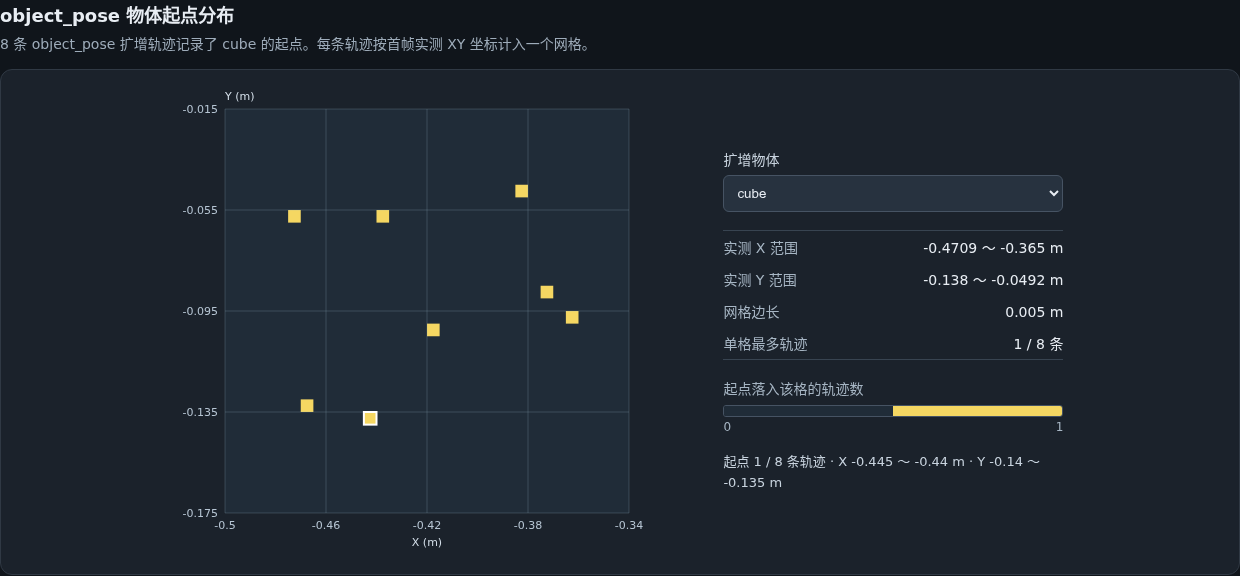
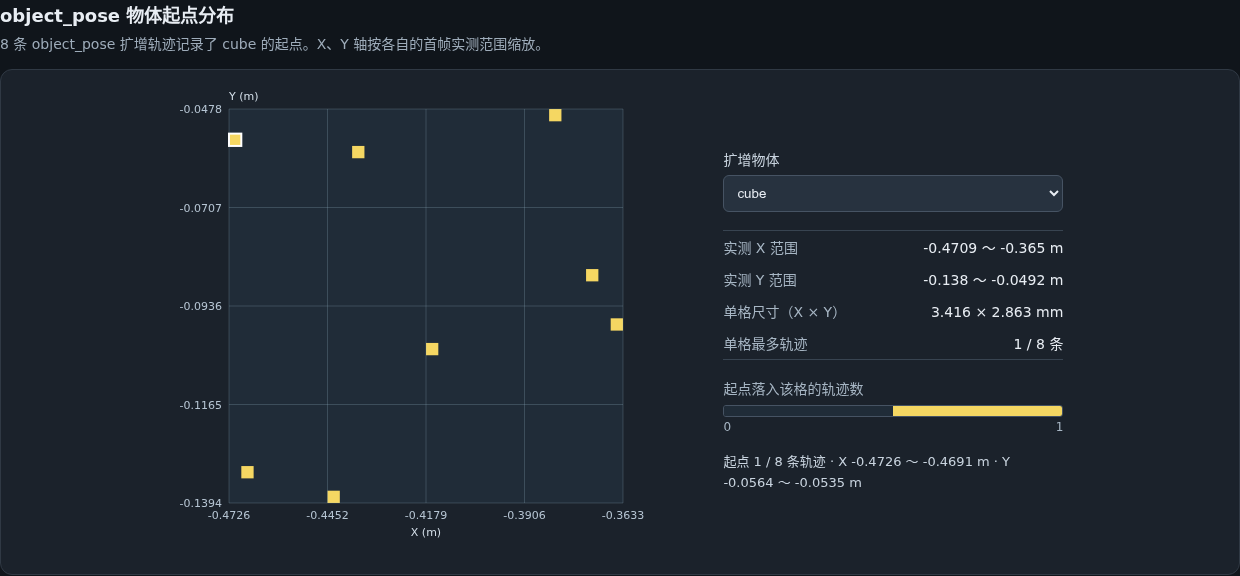
fix(expansion): fit heatmap axes to measured starting positions

diff --git a/embodichain/lab/expansion/_preview_heatmap.js b/embodichain/lab/expansion/_preview_heatmap.js
@@ -19,10 +19,19 @@
   const canvas = element('plot');
   const ctx = canvas.getContext('2d');
   const objectSelect = element('object');
-  const number = new Intl.NumberFormat('zh-CN', {maximumFractionDigits: 4});
-  const meters = (a, b) => `${number.format(a)} ～ ${number.format(b)} m`;
+  const millimeters = new Intl.NumberFormat('zh-CN', {maximumSignificantDigits: 4});
   const peak = counts => Math.max(...counts.map(row => Math.max(...row)));
-  let data, object, view, colors, area, cell = null;
+  let data, object, view, xAxis, yAxis, colors, area, cell = null;
+
+  function axisScale(edges) {
+    const bins = edges.length - 1;
+    const step = (edges[bins] - edges[0]) / bins;
+    const digits = Math.min(20, Math.max(0, 1 - Math.floor(Math.log10(step))));
+    const number = new Intl.NumberFormat('zh-CN', {maximumFractionDigits: digits, useGrouping: false});
+    const ticks = [0, 0.25, 0.5, 0.75, 1].map(t => number.format(edges[Math.round(t * bins)]));
+    const meters = (a, b) => `${number.format(a)} ～ ${number.format(b)} m`;
+    return {step, ticks, meters};
+  }
 
   function colorScale(max) {
     const stops = [[70, 111, 172], [47, 178, 166], [245, 215, 98]];
@@ -46,7 +55,16 @@
     }
     ctx.setTransform(dpr, 0, 0, dpr, 0, 0);
     ctx.clearRect(0, 0, width, height);
-    const left = 48, top = 22, size = Math.min(width - left - 18, height - top - 40);
+    ctx.font = '11px system-ui, sans-serif';
+    const labelWidth = axis => Math.max(...axis.ticks.map(label => ctx.measureText(label).width));
+    const xLabelWidth = labelWidth(xAxis);
+    const left = Math.ceil(Math.max(48, labelWidth(yAxis) + 9, xLabelWidth / 2 + 2));
+    const right = Math.ceil(Math.max(18, xLabelWidth / 2 + 2));
+    const top = 22, size = Math.min(width - left - right, height - top - 40);
+    if (size <= 0) {
+      area = null;
+      return;
+    }
     const n = view.counts.length, step = size / n;
     area = {left, top, size};
     ctx.fillStyle = colors[0];
@@ -59,22 +77,21 @@
       });
     }
 
-    ctx.font = '11px system-ui, sans-serif';
     ctx.fillStyle = '#b6c5d3';
     ctx.strokeStyle = '#94b2c340';
     ctx.lineWidth = 1;
-    const ticks = width < 260 ? 2 : 4;
-    for (let i = 0; i <= ticks; i++) {
-      const fraction = i / ticks, edge = Math.round(fraction * n);
+    const stride = [1, 2, 4].find(skip => size * skip / 4 >= xLabelWidth + 6) ?? 4;
+    for (let i = 0; i <= 4; i += stride) {
+      const fraction = i / 4;
       const x = left + size * fraction, y = top + size * (1 - fraction);
       ctx.beginPath();
       ctx.moveTo(x, top); ctx.lineTo(x, top + size);
       ctx.moveTo(left, y); ctx.lineTo(left + size, y);
       ctx.stroke();
       ctx.textAlign = 'center';
-      ctx.fillText(number.format(object.x_edges_m[edge]), x, top + size + 16);
+      ctx.fillText(xAxis.ticks[i], x, top + size + 16);
       ctx.textAlign = 'right';
-      ctx.fillText(number.format(object.y_edges_m[edge]), left - 7, y + 4);
+      ctx.fillText(yAxis.ticks[i], left - 7, y + 4);
     }
     ctx.fillStyle = '#d4dfe9';
     ctx.textAlign = 'left';
@@ -96,18 +113,20 @@
     }
     const {row, col} = cell;
     const x = object.x_edges_m, y = object.y_edges_m;
-    output.textContent = `起点 ${view.counts[row][col]} / ${object.episodes} 条轨迹 · X ${meters(x[col], x[col + 1])} · Y ${meters(y[row], y[row + 1])}`;
+    output.textContent = `起点 ${view.counts[row][col]} / ${object.episodes} 条轨迹 · X ${xAxis.meters(x[col], x[col + 1])} · Y ${yAxis.meters(y[row], y[row + 1])}`;
   }
 
   function selectObject() {
     object = data.objects[objectSelect.selectedIndex];
     view = object.views.start;
+    xAxis = axisScale(object.x_edges_m);
+    yAxis = axisScale(object.y_edges_m);
     cell = null;
-    element('description').textContent = `${object.episodes} 条 object_pose 扩增轨迹记录了 ${object.uid} 的起点。每条轨迹按首帧实测 XY 坐标计入一个网格。`;
+    element('description').textContent = `${object.episodes} 条 object_pose 扩增轨迹记录了 ${object.uid} 的起点。X、Y 轴按各自的首帧实测范围缩放。`;
     const [low, high] = view.bounds_m;
-    element('x').textContent = meters(low[0], high[0]);
-    element('y').textContent = meters(low[1], high[1]);
-    element('step').textContent = number.format(object.x_edges_m[1] - object.x_edges_m[0]) + ' m';
+    element('x').textContent = xAxis.meters(low[0], high[0]);
+    element('y').textContent = yAxis.meters(low[1], high[1]);
+    element('step').textContent = `${millimeters.format(xAxis.step * 1000)} × ${millimeters.format(yAxis.step * 1000)} mm`;
     const max = peak(view.counts);
     element('peak').textContent = `${max} / ${object.episodes} 条`;
     colors = colorScale(max);
@@ -117,7 +136,7 @@
       swatch.style.backgroundColor = color;
       return swatch;
     }));
-    canvas.setAttribute('aria-label', `${object.uid} 扩增起点 · X ${meters(low[0], high[0])} · Y ${meters(low[1], high[1])} · 单格最多 ${max} 条轨迹`);
+    canvas.setAttribute('aria-label', `${object.uid} 扩增起点 · X ${xAxis.meters(low[0], high[0])} · Y ${yAxis.meters(low[1], high[1])} · 单格最多 ${max} 条轨迹`);
     reportCell();
     draw();
   }

diff --git a/embodichain/lab/expansion/_preview.html b/embodichain/lab/expansion/_preview.html
@@ -44,7 +44,7 @@
       <dl>
         <div><dt>实测 X 范围</dt><dd id="heatmap-x"></dd></div>
         <div><dt>实测 Y 范围</dt><dd id="heatmap-y"></dd></div>
-        <div><dt>网格边长</dt><dd id="heatmap-step"></dd></div>
+        <div><dt>单格尺寸（X × Y）</dt><dd id="heatmap-step"></dd></div>
         <div><dt>单格最多轨迹</dt><dd id="heatmap-peak"></dd></div>
       </dl>
       <div class="heatmap-legend">起点落入该格的轨迹数

diff --git a/tests/lab/expansion/test_preview.py b/tests/lab/expansion/test_preview.py
@@ -317,7 +317,7 @@ def test_heatmap_bins_each_object_pose_target_once_at_its_measured_start(recorde
         )
         return replace(sample, measured=measured, object_pose_uids=targets)
 
-    a, b = (-0.25, 0.5), (0.125, -0.375)
+    a, b = (-0.25, 0.5 + 2**-20), (0.125, 0.5)
     data.reference = clip((20, 30), ("box", "goal"))
     data.clips = [
         clip(a, ("box", "goal")),
@@ -331,16 +331,25 @@ def test_heatmap_bins_each_object_pose_target_once_at_its_measured_start(recorde
     assert [box["uid"], goal["uid"]] == ["box", "goal"]
     assert set(box["views"]) == {"start"}
     view = box["views"]["start"]
-    np.testing.assert_allclose(view["bounds_m"], [[a[0], b[1]], [b[0], a[1]]])
-    assert box["x_edges_m"][-1] < 1 and box["y_edges_m"][0] > -1
+    np.testing.assert_array_equal(view["bounds_m"], [[a[0], b[1]], [b[0], a[1]]])
+    edges = np.array([box["x_edges_m"], box["y_edges_m"]])
+    centers = (edges[:, :-1] + edges[:, 1:]) / 2
+    np.testing.assert_allclose(
+        centers[:, [0, -1]].T, view["bounds_m"], rtol=0, atol=1e-12
+    )
     expected = np.zeros_like(view["counts"])
-    for (x, y), count in [(a, 2), (b, 1)]:
-        row = np.searchsorted(box["y_edges_m"], y, side="right") - 1
-        col = np.searchsorted(box["x_edges_m"], x, side="right") - 1
-        expected[row, col] = count
+    expected[-1, 0] = 2
+    expected[0, -1] = 1
     np.testing.assert_array_equal(view["counts"], expected)
     assert box["episodes"] == 3
     assert goal["episodes"] == np.sum(goal["views"]["start"]["counts"]) == 1
+    goal_edges = np.array([goal["x_edges_m"], goal["y_edges_m"]])
+    np.testing.assert_allclose(
+        goal_edges[:, [0, -1]],
+        anchor[0, :2, None] + [-0.0005, 0.0005],
+        rtol=0,
+        atol=1e-12,
+    )
 
     # A genuine input augmentation still contributes when it doubles as the solid replay.
     implicit = object_heatmaps(replace(data, reference=None))

diff --git a/embodichain/lab/expansion/_preview_heatmap.py b/embodichain/lab/expansion/_preview_heatmap.py
@@ -18,7 +18,6 @@
 
 from __future__ import annotations
 
-import math
 from typing import TYPE_CHECKING, Any
 
 import numpy as np
@@ -32,12 +31,14 @@ _BINS = 32
 
 
 def _grid_edges(bounds: np.ndarray) -> np.ndarray:
-    """Build equal-length XY axes with a margin and a useful scale for still objects."""
-    desired = max(float(np.max(bounds[1] - bounds[0])) / (_BINS - 2), 0.001)
-    magnitude = 10.0 ** math.floor(math.log10(desired))
-    step = next(n * magnitude for n in (1, 2, 2.5, 5, 10) if n * magnitude >= desired)
-    center = np.rint(bounds.mean(axis=0) / step)
-    return (center[:, None] + np.arange(_BINS + 1) - _BINS // 2) * step
+    """Fit each axis with half-cell margins or a 1 mm window for a constant coordinate."""
+    low, high = bounds
+    span = high - low
+    step = np.where(span > 0, span / (_BINS - 1), 0.001 / _BINS)
+    # Keep adjacent edges distinguishable at the measured world coordinates.
+    step = np.maximum(step, 2 * np.spacing(np.maximum(np.abs(low), np.abs(high))))
+    center = low + span / 2
+    return center[:, None] + (np.arange(_BINS + 1) - _BINS / 2) * step[:, None]
 
 
 def object_heatmaps(data: PreviewData) -> dict[str, Any]:

diff --git a/scripts/tutorials/expansion/ur5_pick_place/README.md b/scripts/tutorials/expansion/ur5_pick_place/README.md
@@ -43,7 +43,7 @@ python -m embodichain expansion preview \
 - 原始轨迹始终以实体显示。右侧每个轨迹按钮独立切换一条半透明虚影。按上述命令加载时，前两个参数组来自 `scene_first`，后两个来自 `robot_first`。
 - 在 **Affordance** 下拉框中选择 `1` 或 `2`，可以查看采用该抓取分支的轨迹。使用任务固定抓取姿态的 `object_pose` 记录显示为「未记录」。
 - 画面下方的 TCP 图分开显示相对原始轨迹的平移距离（mm）和最短旋转角（°）。关节图显示每条轨迹最大的臂关节绝对偏差。三条曲线都用色带标出同一时刻各轨迹的最小值至最大值，用实线标出均值。悬停可读取三项数值和参与轨迹数。
-- **object_pose 物体起点分布**统计两种布局策略各 4 条 `object_pose` 扩增轨迹。选择抓取方块 `cube` 或放置目标 `goal`，可查看该物体在 8 条轨迹首帧的实测 XY 位置。每条轨迹为该物体贡献一个起点。悬停或轻点网格可读取坐标和轨迹数。
+- **object_pose 物体起点分布**统计两种布局策略各 4 条 `object_pose` 扩增轨迹。选择抓取方块 `cube` 或放置目标 `goal`，可查看该物体在 8 条轨迹首帧的实测 XY 位置。X、Y 轴分别贴合该物体的起点范围，两端各留半格。图旁标有单格的实际宽、高。悬停或轻点网格可读取坐标和轨迹数。
 
 下图停在 9.00 秒。选择抓取分支 `2` 后有四条轨迹符合条件，图中打开了 `C-002`（`scene_first`）和 `C-011`（`robot_first`）两条虚影。两条虚影和原始轨迹共享同一回放时钟。[查看偏差曲线](assets/deviation-bands.png) · [查看方块扩增起点热力图](assets/object-heatmap.png)
 

diff --git a/examples/expansion/engine/ghost-preview.md b/examples/expansion/engine/ghost-preview.md
@@ -217,7 +217,9 @@ embodichain expansion preview \
 
 热力图从 `--input` 读取已确认的 `object_pose` 扩增记录。物体下拉框列出这些记录在
 `joint_scene.pose_changes` 中指定的刚体。每条记录取所选物体首帧实测原点的场景 XY 坐标，
-以米为单位计入一个网格。坐标轴和色标按该物体的扩增起点计算，指向或轻点网格可查看边界及轨迹数。
+以米为单位计入一个网格。X、Y 轴分别按该物体的起点范围缩放，每端留半格。
+若某个轴的起点坐标都相同，就以该坐标为中心显示 1 mm 的范围。
+图旁标有两轴各自的单格尺寸，指向或轻点网格可查看边界及轨迹数。
 统计使用全部符合条件的输入，与当前启用的虚影和回放时间独立。单独传入的 `--reference` 用于回放对照。
 
 ## 验收与当前限制

diff --git a/agent_context/topics/expansion-engine/expansion-engine.md b/agent_context/topics/expansion-engine/expansion-engine.md
@@ -116,7 +116,9 @@ calibration for TCP errors. At each reference time it reports the minimum, mean
 and maximum across recordings still in range for TCP translation distance,
 TCP rotation angle and each episode's worst joint deviation. `_preview_heatmap.py`
 bins the measured first-frame XY of each rigid target in an `object_pose` input
-episode's `joint_scene.pose_changes`. The recipe's selected motion operator takes
+episode's `joint_scene.pose_changes`. Each axis fits the object's measured starts
+independently with half a bin of padding at either end, or a 1 mm window for a
+constant coordinate. The recipe's selected motion operator takes
 precedence over the job-level operator. The explicit reference belongs to replay.
 The HTTP service
 publishes both chart datasets independently of the live image/state snapshots. FK and episode
